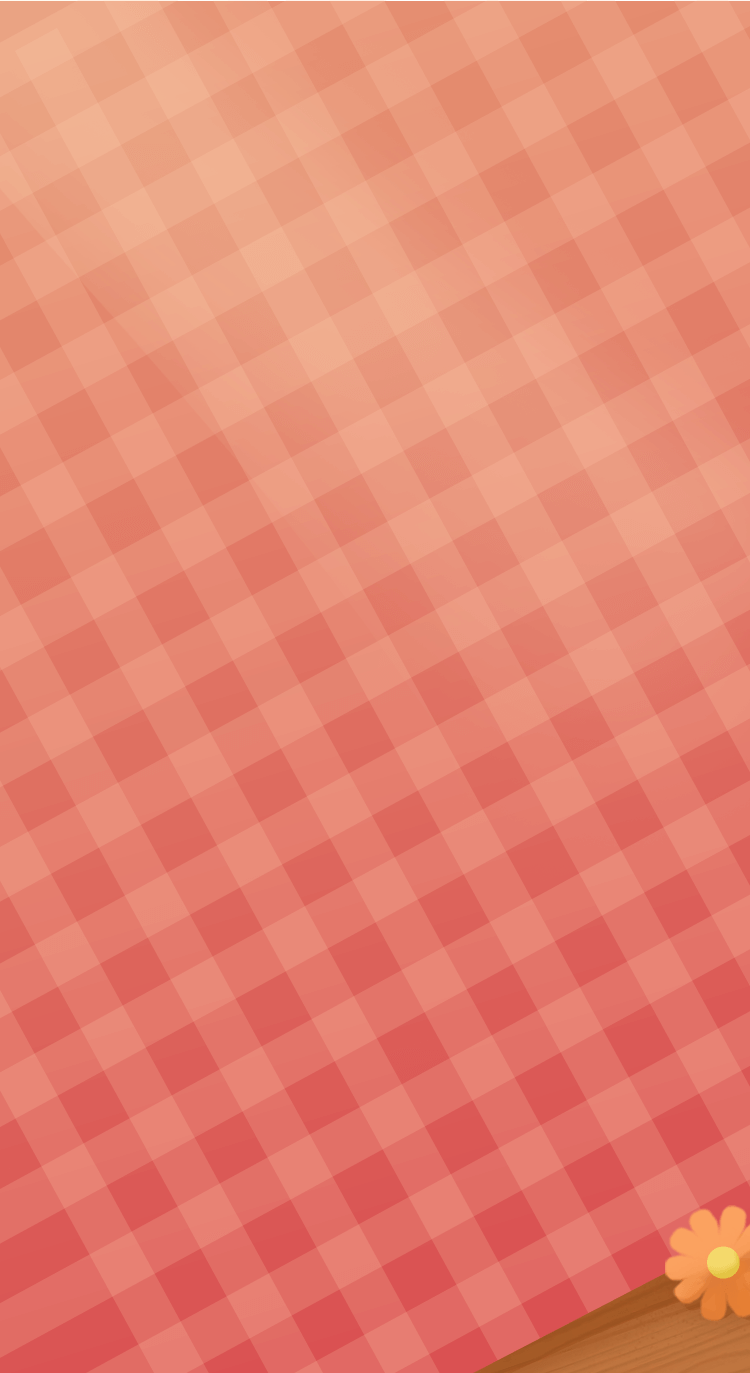
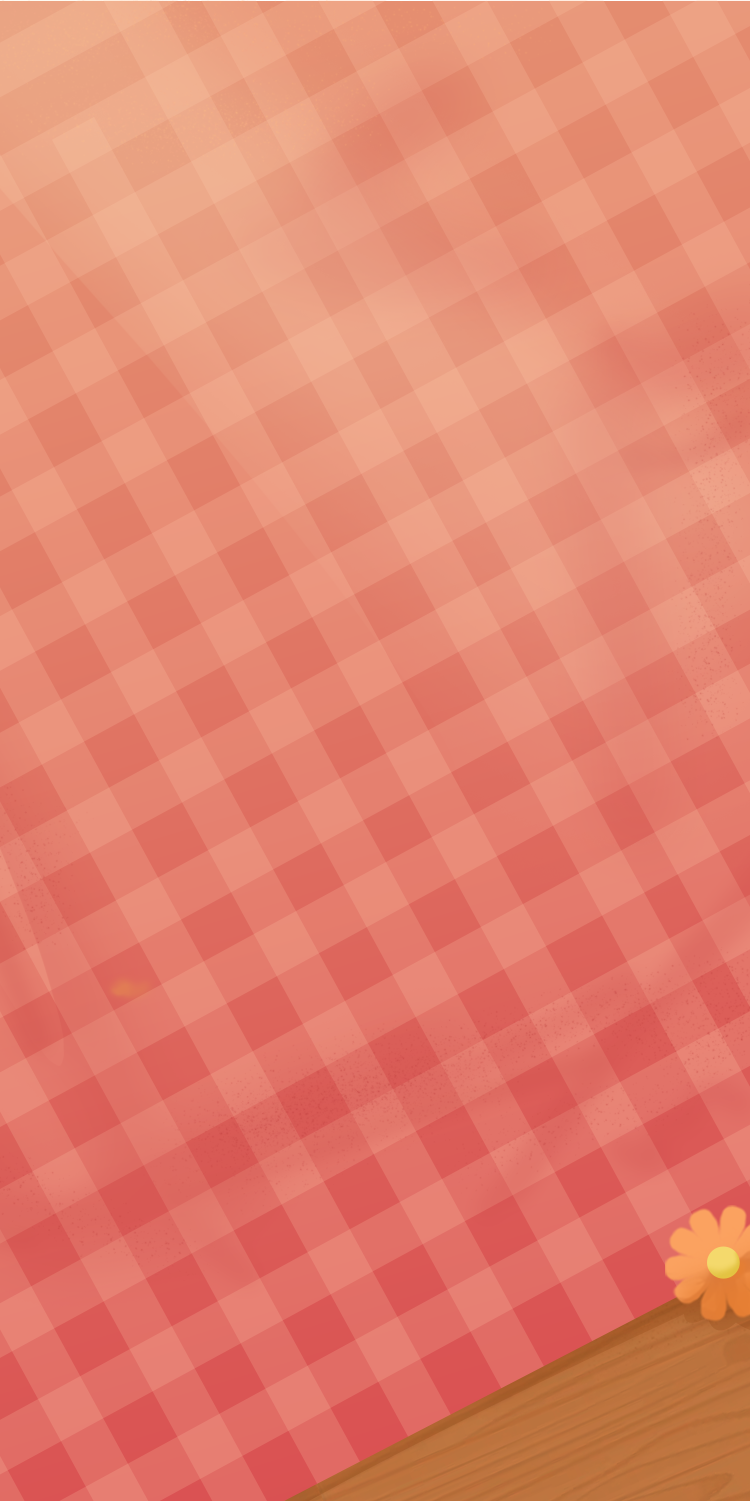
fix: change inner-bac to height 1600px

diff --git a/src/views/HistoryCard.vue b/src/views/HistoryCard.vue
@@ -127,8 +127,8 @@ export default {
 .history-card {
   height: 100vh;
   background: url(~@assets/images/base/inner-bk.png);
-  background-size: 100% 100%;
-  background-position: center bottom;
+  background-size: 100%;
+  background-position: center;
   background-repeat: no-repeat;
   position: relative;
 }
